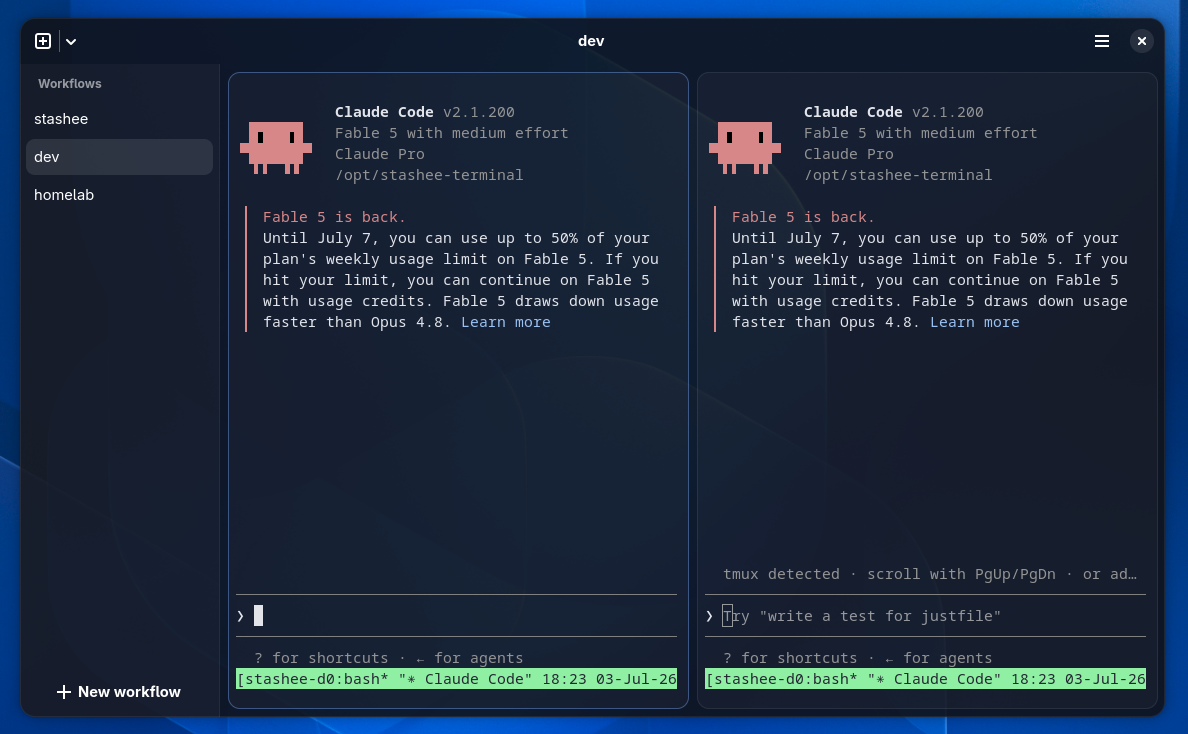
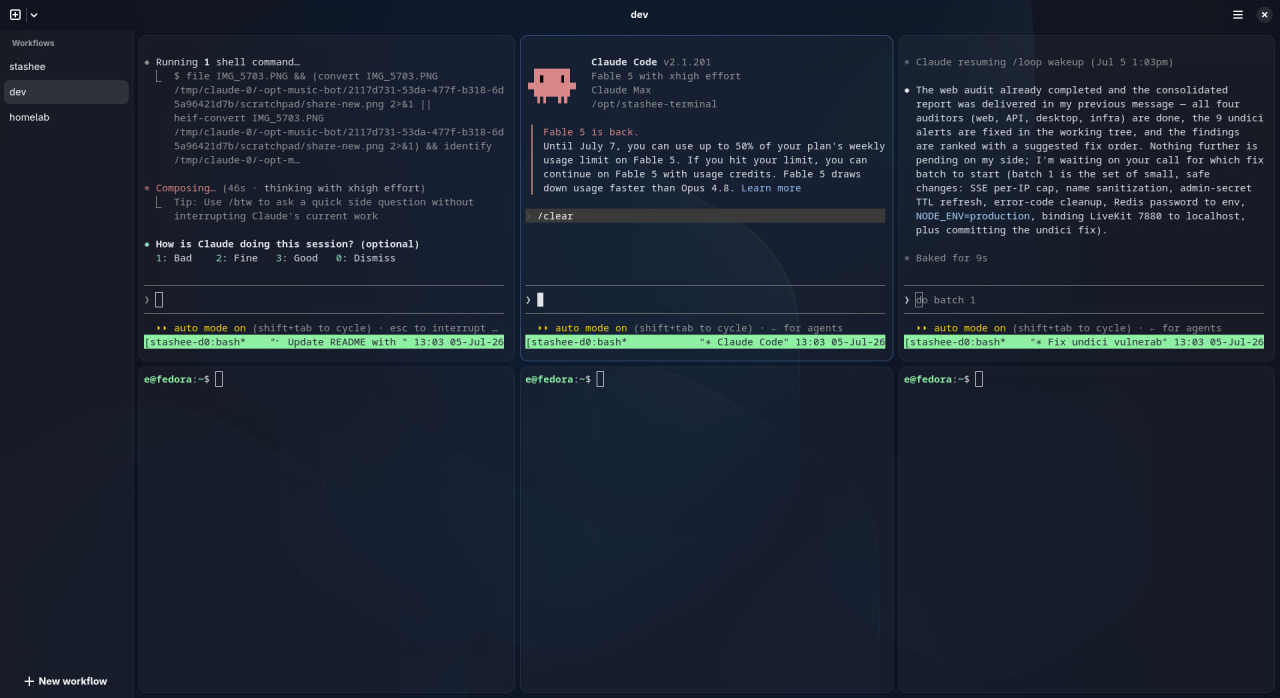
docs: rework README showcase — single hero, captioned workflow shot

diff --git a/README.md b/README.md
@@ -13,10 +13,6 @@ Every pane runs inside a tmux session, so closing the app **stashes** a
 workflow instead of killing it. Reopen, and every shell is back exactly
 where it was.
 
-<div align="center">
-<img src="docs/shots/agents.png" alt="two coding agents in a stashed workflow" width="85%">
-</div>
-
 ## Why
 
 - Sessions live in tmux, not in the app. Quitting, crashing, or
@@ -28,6 +24,12 @@ where it was.
   clipboard.
 - Native. Rust, GTK4, libadwaita, and VTE (the terminal engine behind
   GNOME Terminal and Ptyxis). No Electron, no webviews, no daemons.
+
+<p align="center">
+  <img src="docs/shots/agents.png" alt="three coding agents in a stashed workflow" width="90%">
+  <br>
+  <sub>Three coding agents in a stashed workflow. Closing the window kills none of them.</sub>
+</p>
 
 ## Usage
 